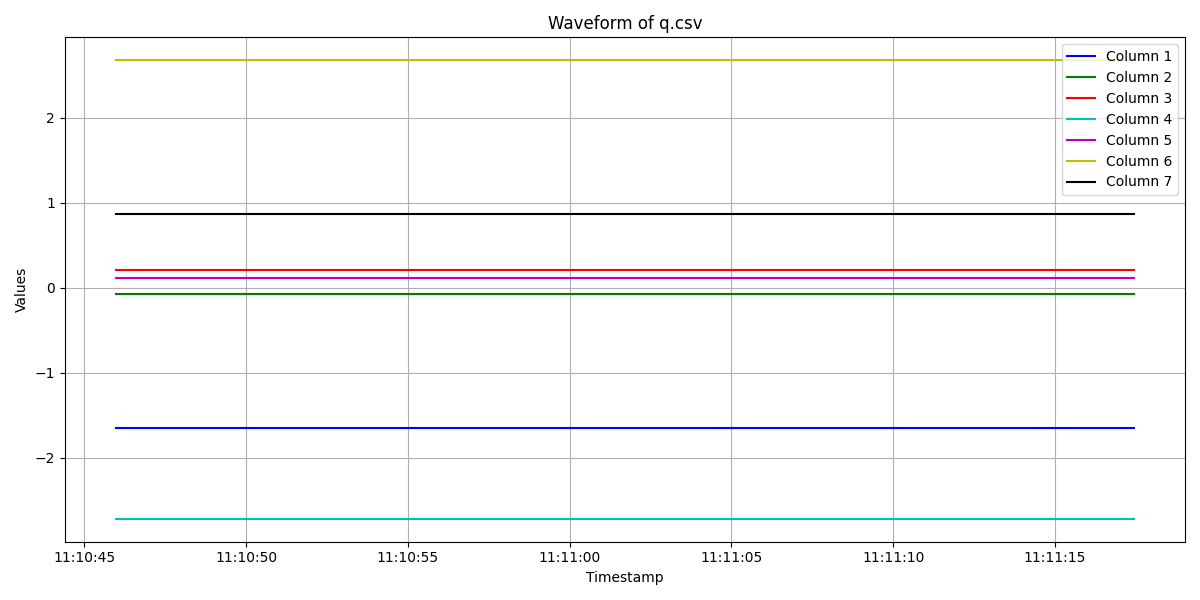
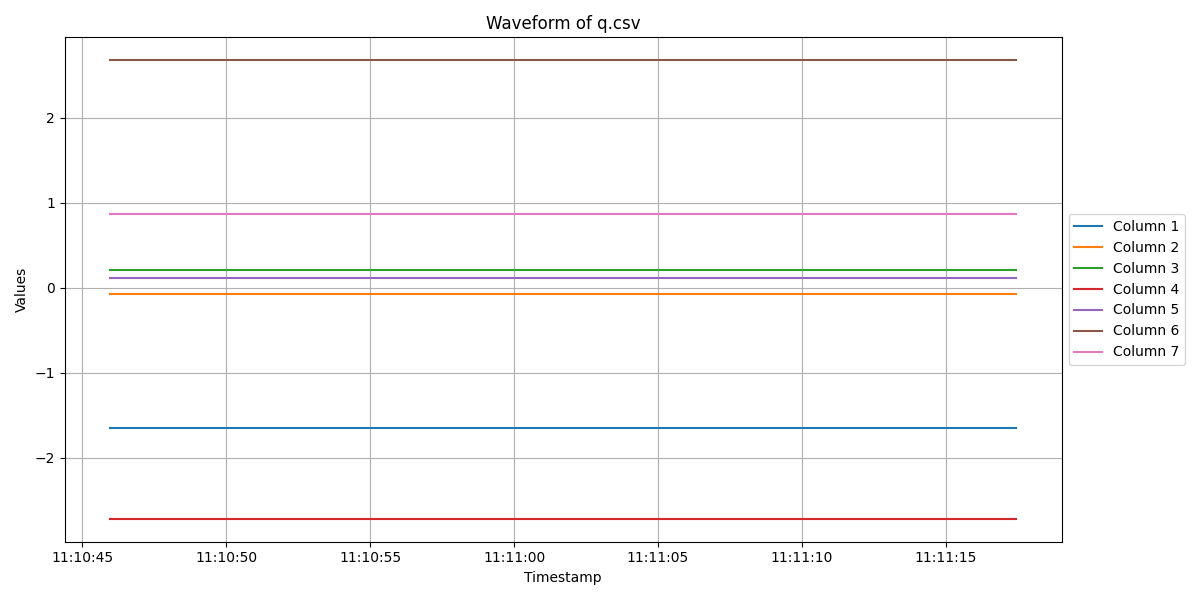
update

diff --git a/visualization.py b/visualization.py
@@ -2,28 +2,25 @@ import pandas as pd
 import matplotlib.pyplot as plt
 import os
 
-def plot_7d_attribute(csv_file_path, plot_file_path):
+def plot_attribute(csv_file_path, plot_file_path, attributes, num_columns):
     # Ensure the plot_file_path directory exists; create if not
     if not os.path.exists(plot_file_path):
         os.makedirs(plot_file_path)
 
-    # Attributes to plot (with 7 dimentions)
-    attributes_7 = [
-        "q", "q_d", "tau_ext_hat_filtered", "tau_J", "tau_J_d", "theta", "dtheta"
-    ]
-    
-    # Define colors for each attribute
-    colors = ['b', 'g', 'r', 'c', 'm', 'y', 'k']
+
+    #generate a list of colors using a colormap
+    cmap =  plt.get_cmap("tab10")
+    colors = [cmap(i) for i in range(num_columns)]
 
     # Iterate through each CSV file in csv_file_path directory
     for filename in os.listdir(csv_file_path):
         if filename.endswith(".csv"):
             # Check if the file starts with any attribute in the list
-            if any(filename.startswith(attr) for attr in attributes_7):
+            if any(filename.startswith(attr) for attr in attributes):
                 csv_file = os.path.join(csv_file_path, filename)
                 plot_file = os.path.join(plot_file_path, os.path.splitext(filename)[0] + ".png")
 
-                #check if the plot file exists and delete it if it does
+                # Check if the plot file exists and delete it if it does
                 if os.path.exists(plot_file):
                     os.remove(plot_file)
                     print(f"Existing plot {plot_file} deleted.")
@@ -34,13 +31,12 @@ def plot_7d_attribute(csv_file_path, plot_file_path):
                     #print(df.head())
 
                     # Print the number of columns in the CSV file
-                   # print(f"File: {filename}, Number of columns: {len(df.columns)}")
-
+                    # print(f"File: {filename}, Number of columns: {len(df.columns)}")
 
                     # Extract timestamp and values for each column
                     timestamp = pd.to_datetime(df["timestamp"])
                     #print(f"timestamp is {timestamp}")
-                    columns_to_plot = df.columns[1:8]  # Adjust indices based on actual CSV structure
+                    columns_to_plot = df.columns[1:num_columns+1]  # Adjust indices based on actual CSV structure
 
                     # Plotting
                     plt.figure(figsize=(12, 6))
@@ -51,7 +47,7 @@ def plot_7d_attribute(csv_file_path, plot_file_path):
                     plt.xlabel('Timestamp')
                     plt.ylabel('Values')
                     plt.title(f'Waveform of {filename}')
-                    plt.legend()
+                    plt.legend(loc="center left",bbox_to_anchor = (1,0.5))
                     plt.grid(True)
                     plt.tight_layout()
 
@@ -62,70 +58,38 @@ def plot_7d_attribute(csv_file_path, plot_file_path):
                 except Exception as e:
                     print(f"Error plotting {csv_file}: {e}")
 
+def plot_3d_attribute(csv_file_path, plot_file_path):
+    attributes_3 = ["cartesian_contact", "cartesian_collision", "O_F_ext_hat_K ", "K_F_ext_hat_K", "O_dP_EE_d", "O_dP_EE_c", "O_ddP_EE_c "]
+    plot_attribute(csv_file_path, plot_file_path, attributes_3, 3)
+
+
+def plot_9d_attribute(csv_file_path, plot_file_path):
+    attributes_9 = ["q", "q_d", "tau_ext_hat_filtered", "tau_J", "tau_J_d", "theta", "dtheta"]
+    plot_attribute(csv_file_path, plot_file_path, attributes_9, 9)
+
+def plot_2d_attribute(csv_file_path, plot_file_path):
+    attributes_2 = ["O_T_EE", "O_T_EE_d", "F_T_EE", "F_T_NE", "NE_T_EE", "EE_T_K", "O_T_EE_c"]
+    plot_attribute(csv_file_path, plot_file_path, attributes_2, 2)
 
 
 def plot_6d_attribute(csv_file_path, plot_file_path):
-    # Ensure the plot_file_path directory exists; create if not
-    if not os.path.exists(plot_file_path):
-        os.makedirs(plot_file_path)
-
-    # Attributes to plot (with 7 dimentions)
-    attributes_6 = [
-        "cartesian_contact", "cartesian_collision", "O_F_ext_hat_K ", "K_F_ext_hat_K", "O_dP_EE_d", "O_dP_EE_c", "O_ddP_EE_c "
-    ]
-    
-    # Define colors for each attribute
-    colors = ['b', 'g', 'r', 'c', 'm', 'y']
-
-    # Iterate through each CSV file in csv_file_path directory
-    for filename in os.listdir(csv_file_path):
-        if filename.endswith(".csv"):
-            # Check if the file starts with any attribute in the list
-            if any(filename.startswith(attr) for attr in attributes_6):
-                csv_file = os.path.join(csv_file_path, filename)
-                plot_file = os.path.join(plot_file_path, os.path.splitext(filename)[0] + ".png")
-
-                #check if the plot file exists and delete it if it does
-                if os.path.exists(plot_file):
-                    os.remove(plot_file)
-                    print(f"Existing plot {plot_file} deleted.")
-
-                try:
-                    # Read CSV file to handle files 
-                    df = pd.read_csv(csv_file, sep=",")
-                    #print(df.head())
-
-                    # Print the number of columns in the CSV file
-                   # print(f"File: {filename}, Number of columns: {len(df.columns)}")
+    attributes_6 = ["cartesian_contact", "cartesian_collision", "O_F_ext_hat_K ", "K_F_ext_hat_K", "O_dP_EE_d", "O_dP_EE_c", "O_ddP_EE_c "]
+    plot_attribute(csv_file_path, plot_file_path, attributes_6, 6)
 
 
-                    # Extract timestamp and values for each column
-                    timestamp = pd.to_datetime(df["timestamp"])
-                    #print(f"timestamp is {timestamp}")
-                    columns_to_plot = df.columns[1:7]  # Adjust indices based on actual CSV structure
+def plot_7d_attribute(csv_file_path, plot_file_path):
+    attributes_7 = ["q", "q_d", "tau_ext_hat_filtered", "tau_J", "tau_J_d", "theta", "dtheta"]
+    plot_attribute(csv_file_path, plot_file_path, attributes_7, 7)
 
-                    # Plotting
-                    plt.figure(figsize=(12, 6))
+def plot_16d_attribute(csv_file_path, plot_file_path):
+    attributes_16 = ["O_T_EE", "O_T_EE_d", "F_T_EE", "F_T_NE", "NE_T_EE", "EE_T_K", "O_T_EE_c"]
+    plot_attribute(csv_file_path, plot_file_path, attributes_16, 16)
 
-                    for i, col in enumerate(columns_to_plot):
-                        plt.plot(timestamp, df[col], color=colors[i], label=f'Column {i+1}')
-
-                    plt.xlabel('Timestamp')
-                    plt.ylabel('Values')
-                    plt.title(f'Waveform of {filename}')
-                    plt.legend()
-                    plt.grid(True)
-                    plt.tight_layout()
-
-                    # Save the plot
-                    plt.savefig(plot_file)
-                    plt.close()
-                    print(f"Plot saved to {plot_file}")
-                except Exception as e:
-                    print(f"Error plotting {csv_file}: {e}")                  
 
 # Example usage:
 if __name__ == '__main__':
-    csv_folder_path = "data/0712"
-    plot_folder_path = "data/0712/plot"
-    plot_7d_attribute(csv_folder_path, plot_folder_path)
+    csv_file_path = "data/0712"
+    plot_file_path = "data/0712/plot"
+    plot_7d_attribute(csv_file_path, plot_file_path)
+    plot_6d_attribute(csv_file_path, plot_file_path)
+    plot_16d_attribute(csv_file_path, plot_file_path)
